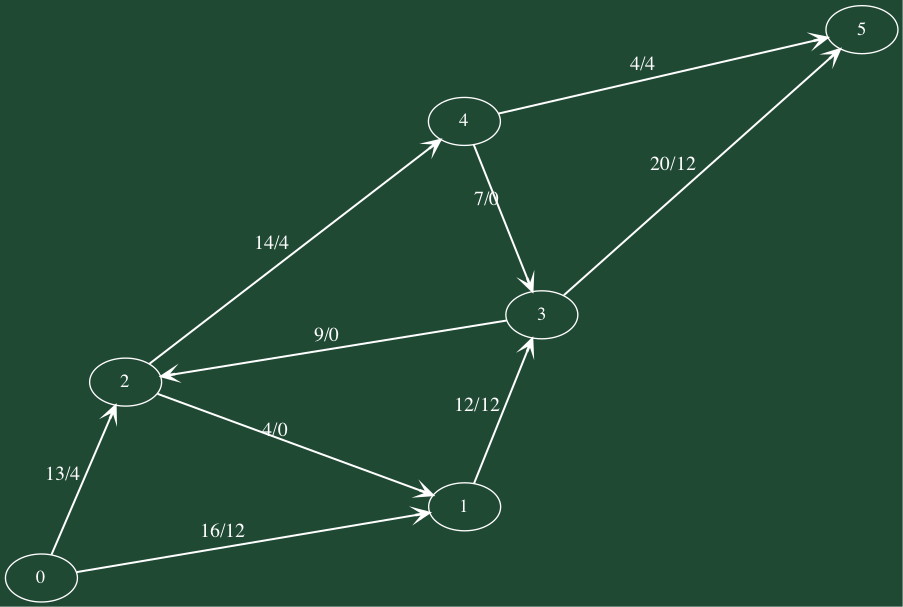
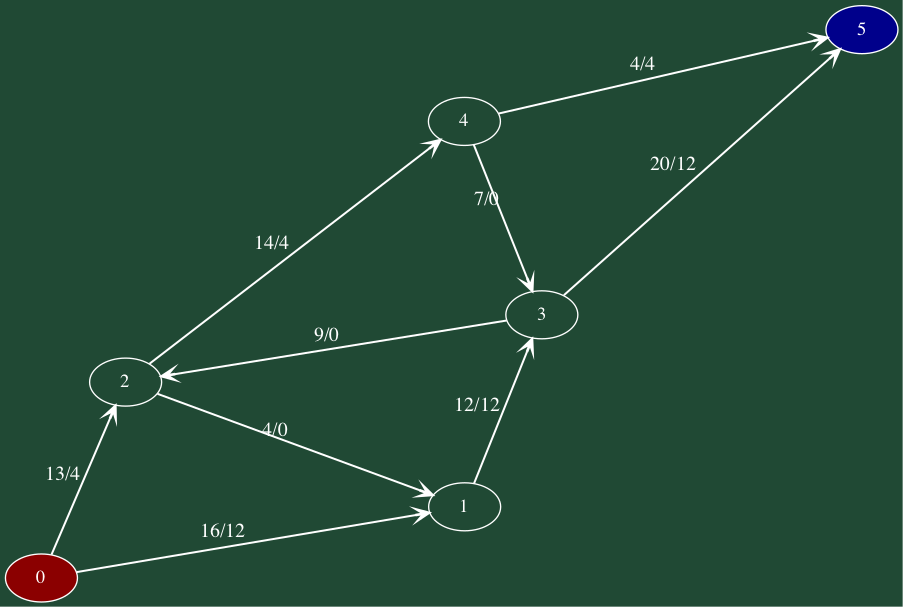
changed fillcolor for source and sink

Changed region(s): [[0.0, 0.8896, 0.093, 1.0], [0.8992, 0.0, 0.9922, 0.089]]

diff --git a/Edmond-Karp-Visualisation/Edmond_Karp_Flow.py b/Edmond-Karp-Visualisation/Edmond_Karp_Flow.py
@@ -8,9 +8,11 @@ def makeGraph(C, F, s, t, fGraphName, hide0cp=False, initdisp=False):
     for i in range(n):
         my_node = pydot.Node(str(i),fontcolor="white",color="white")
         graph.add_node(my_node)
-    # if not initdisp:
-    #     graph.get_node(str(s))[0].set_label("S R C")
-    #     graph.get_node(str(t))[0].set_label("S N K")
+    if not initdisp:
+        graph.get_node(str(s))[0].set_fillcolor("red4")
+        graph.get_node(str(t))[0].set_fillcolor("blue4")
+        graph.get_node(str(s))[0].set_style("filled")
+        graph.get_node(str(t))[0].set_style("filled")
 
     # # Forcing source to be at top and sink to be in opposite sides of the graph
     # subg=pydot.Subgraph(rank='source')

diff --git a/Edmond-Karp-Visualisation/Edmond_Karp_Residual.py b/Edmond-Karp-Visualisation/Edmond_Karp_Residual.py
@@ -35,8 +35,10 @@ def makeGraph(C, F, path, flow, s, t, rGraphName):
             my_node = pydot.Node(str(i),fontcolor="white",color="white")
             graph.add_node(my_node)
 
-    # graph.get_node(str(s))[0].set_label("S R C")
-    # graph.get_node(str(t))[0].set_label("S N K")
+    graph.get_node(str(s))[0].set_fillcolor("red4")
+    graph.get_node(str(t))[0].set_fillcolor("blue4")
+    graph.get_node(str(s))[0].set_style("filled")
+    graph.get_node(str(t))[0].set_style("filled")
 
     # # Forcing source to be at top and sink to be in opposite sides of the graph
     # subg=pydot.Subgraph(rank='source')
